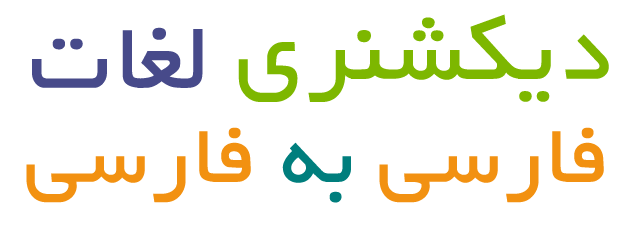
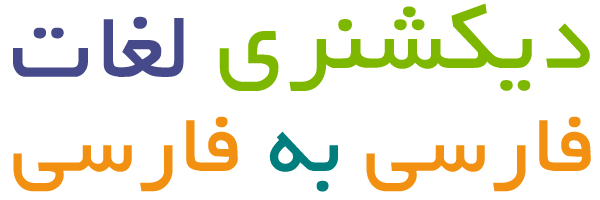
:pencil: بروزرسانی README.md

diff --git a/README.md b/README.md
@@ -1,5 +1,5 @@
 <div align="center">
-<img src="image/persian-dictionary.png" alt="logo" width="630" height="226" />
+<img src="image/persian-dictionary.png" alt="logo" width="450" height="150" />
   <!--<h1>Persian to Persian Dictionary</h1>-->
   <p>دیکشنری و لغات فارسی به فارسی</p>
 </div>
@@ -10,14 +10,15 @@
 
 ## :star2: About the Project
 
-About
+فرهنگ لغات فارسی به همراه لیست کلمات شامل بیش از بیست هزار کلمه.
 
 <!-- Roadmap -->
 
 ## :compass: TODO
 
-* [x] Todo1
-* [ ] Todo2
+* [x] اضافه کردن لیست کلمات
+* [ ] اضافه کردن فرهنگ لغات دیگر با تعداد کلمات بیشتر
+* [ ] فرهنگ موضوعی؟ مثلا لغات فقط مربوط به مکان ها و ...
 
 
 <!-- Known Issues -->
@@ -36,14 +37,14 @@ Contributions are always welcome!
 
 ## :warning: License
 
-Distributed under the GNU GPL V2 License.
+توزیع شده در بستر لایسنس GNU GPL V2.
 
 
 <!-- Contact -->
 
 ## :handshake: Contact
 
-Seyed Mansour Mirbehbahani - sm.mirbehbahani@gmail.com
+سیدمنصور میربهبهانی - sm.mirbehbahani@gmail.com
 
 <!-- Acknowledgments -->
 
